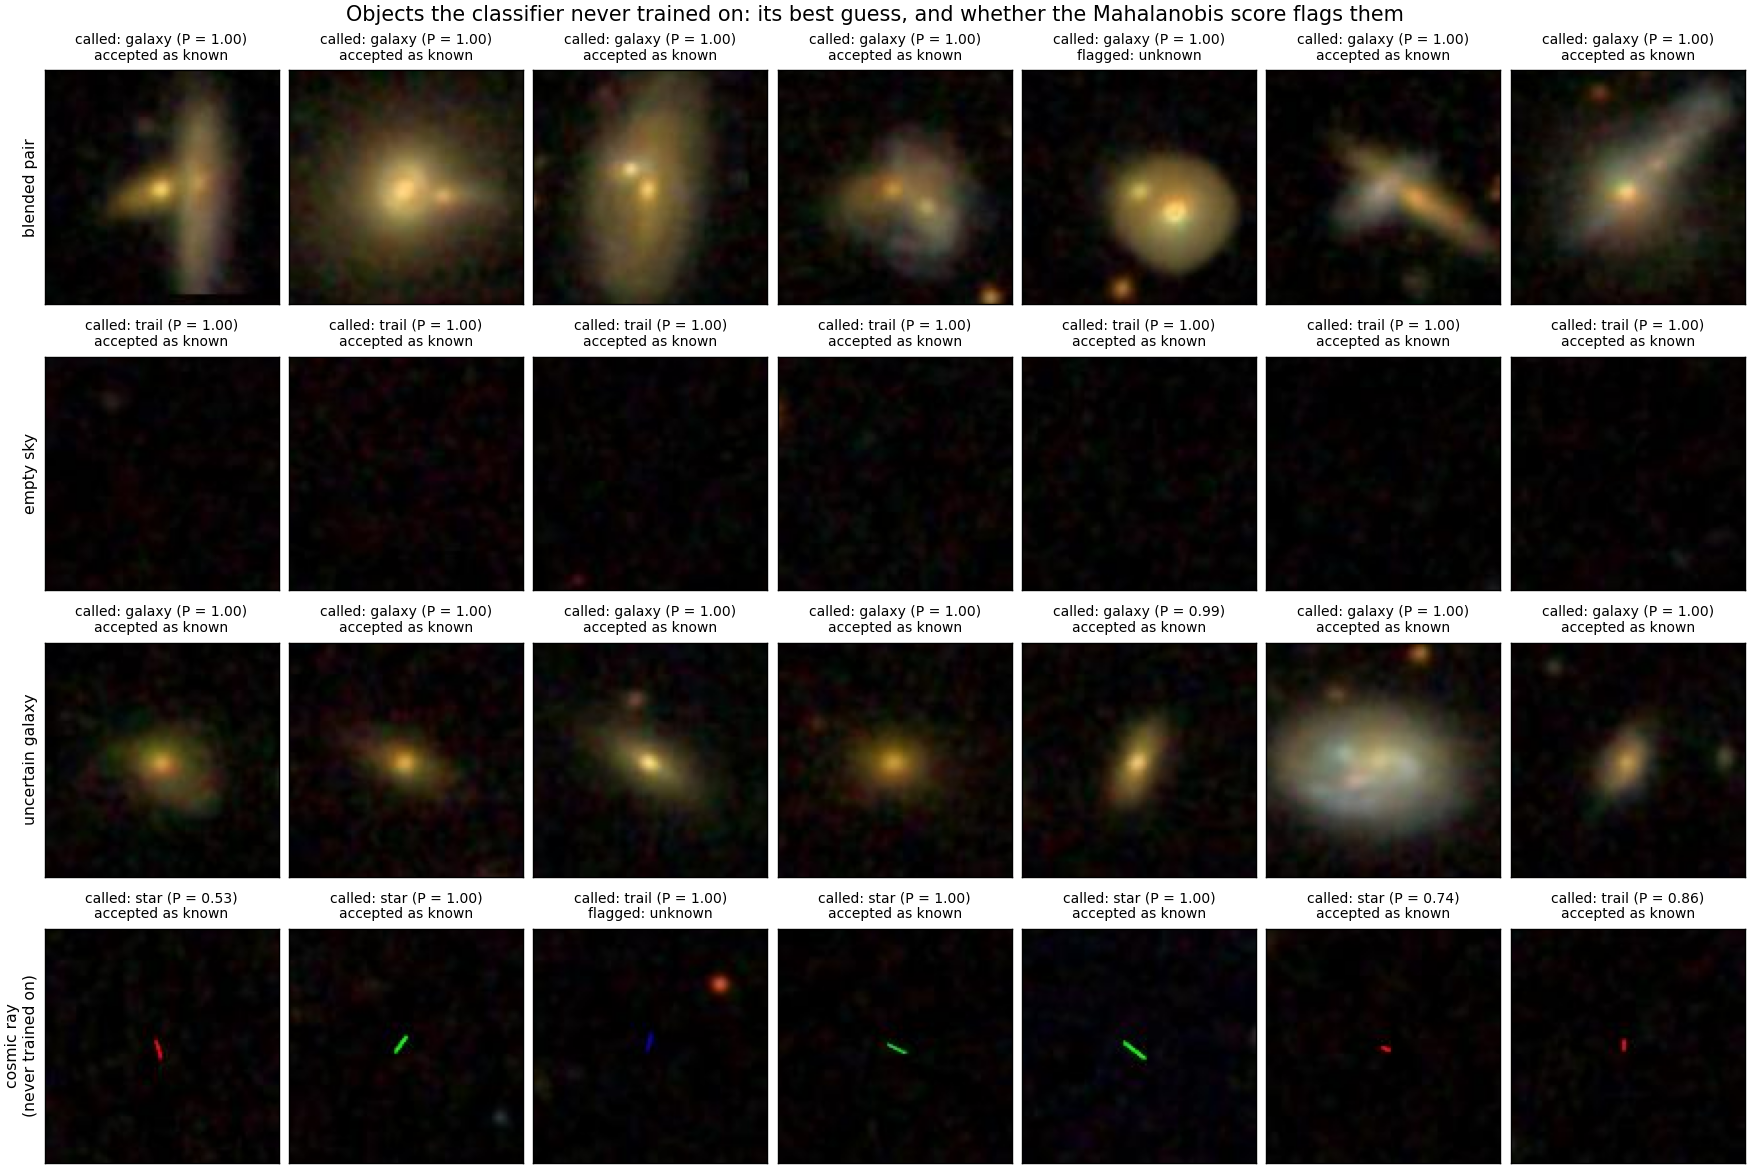
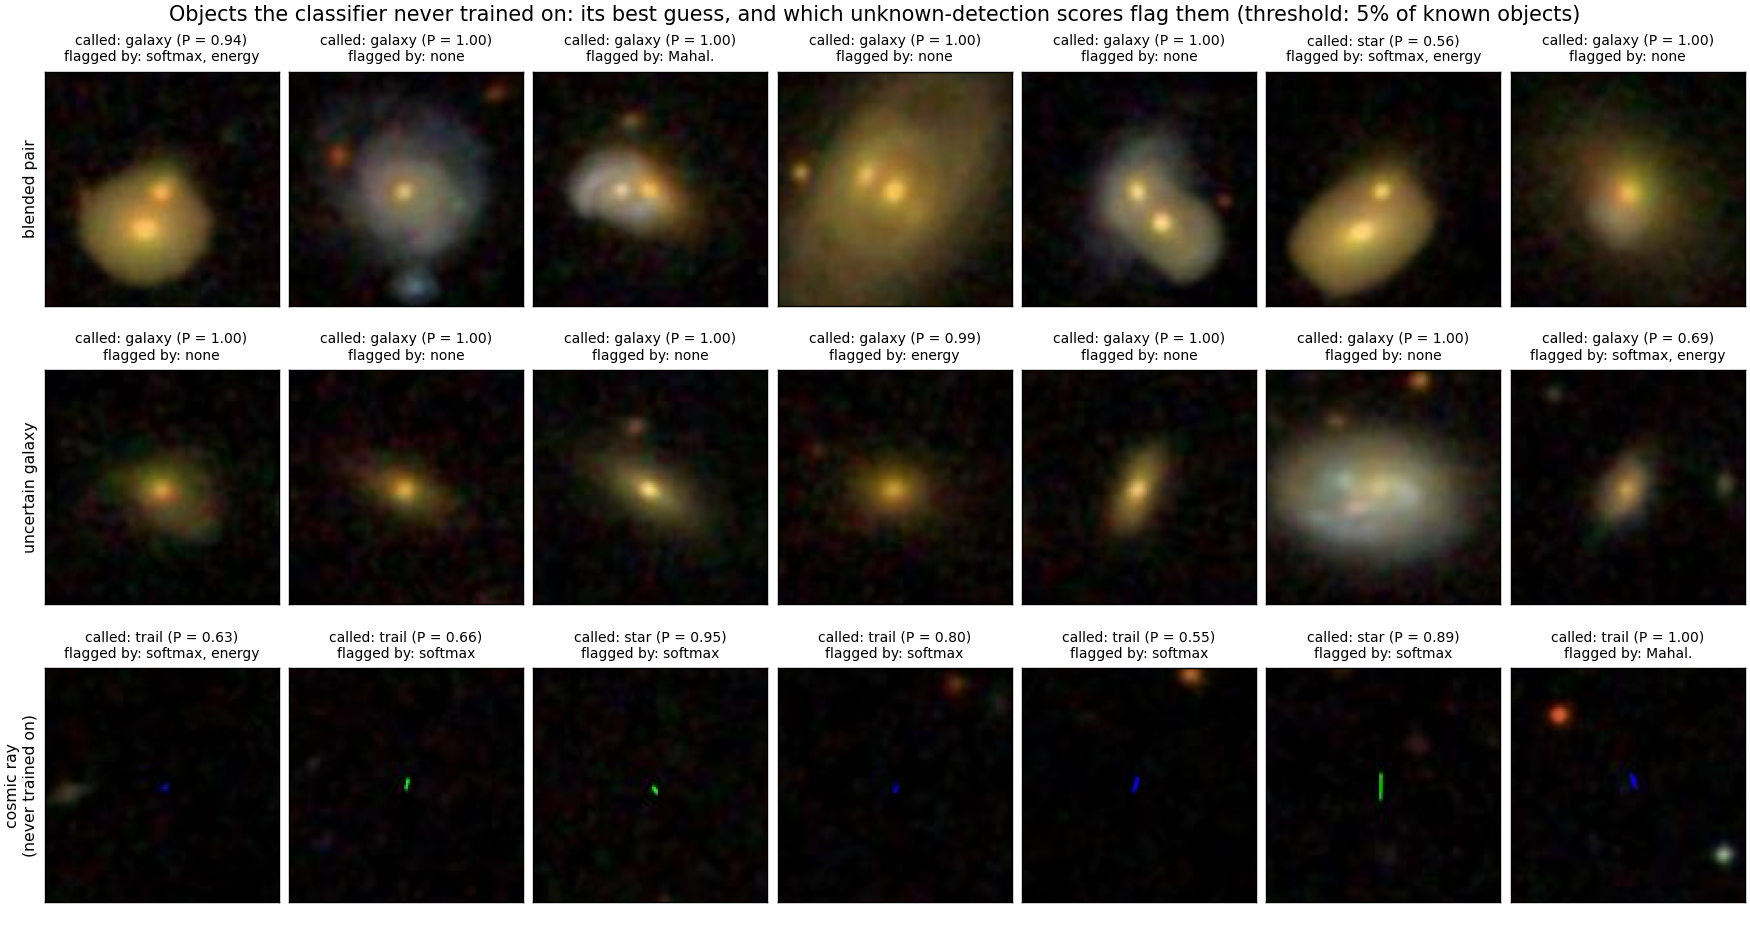
Step 5: empty-sky class and compact-galaxy blends; held-out cosmic rays AUROC 0.80 -> 0.95.

diff --git a/agentic/10_Convolutions_and_Galaxies/step5.py b/agentic/10_Convolutions_and_Galaxies/step5.py
@@ -24,7 +24,8 @@ import sims
 import step3 as s3
 
 OUT = Path(__file__).parent / "results"
-CLASSES = ["galaxy", "star", "cosmic ray", "trail"]
+CLASSES = ["galaxy", "star", "cosmic ray", "trail", "empty sky"]
+LOO_CLASSES = ["galaxy", "star", "trail", "empty sky"]          # cosmic rays held out
 log = []
 
 
@@ -46,10 +47,25 @@ def artifacts(kind, n, sky, rng):
     return np.stack(out)
 
 
+def compact(gals, border=10, max_area=3000):
+    """Galaxies whose generous footprint stays `border` px inside the frame and is small:
+    these can be moved without carrying a cut-off edge or a visible mask outline."""
+    keep = []
+    for k, v in enumerate(gals):
+        lab, _ = __import__("scipy").ndimage.label(sims.object_mask(v, 2.0, 8))
+        foot = lab == lab[60, 60] if lab[60, 60] else np.zeros(v.shape[:2], bool)
+        edge = foot[:border].any() or foot[-border:].any() or foot[:, :border].any() or foot[:, -border:].any()
+        if lab[60, 60] and not edge and foot.sum() < max_area:
+            keep.append(k)
+    return np.array(keep)
+
+
 def blends(gals, n, rng):
+    """Galaxy a (any) plus the light of a compact galaxy b, 12-25 px away."""
+    small = compact(gals)
     out = []
     for _ in range(n):
-        a, b = gals[rng.integers(len(gals))], gals[rng.integers(len(gals))]
+        a, b = gals[rng.integers(len(gals))], gals[small[rng.integers(len(small))]]
         ub = s3.linear(b)
         ub = ub - s3.sky_level(ub)
         # only the galaxy's light, not its sky noise: its generous source footprint, soft-edged
@@ -119,7 +135,7 @@ if __name__ == "__main__":
 
     def known(gal_idx, stars, sky_, n_art):
         X = [prep(gal_idx), prep_v(stars), artifacts("cosmic ray", n_art, sky_, rng),
-             artifacts("trail", n_art, sky_, rng)]
+             artifacts("trail", n_art, sky_, rng), prep_v(sky_[rng.permutation(len(sky_))[:n_art]])]
         y = np.concatenate([np.full(len(x), c) for c, x in enumerate(X)])
         return np.concatenate(X), y
 
@@ -128,16 +144,20 @@ if __name__ == "__main__":
     X_te, y_te = known(test_c, st_te, sky_te, 300)
     unknown = {
         "blended pair": blends(images_dr16[test_c], 400, rng),
-        "empty sky": prep_v(sky_te[:400]),
         "uncertain galaxy": prep(unc[:600]),
     }
+    say(f"[blends] built from {len(compact(images_dr16[test_c]))} compact test galaxies "
+        f"(footprint >= 10 px inside the frame)")
     say(f"[data] train {len(X_tr)}, validation {len(X_va)}, known test {len(X_te)}; "
         + ", ".join(f"{k} {len(v)}" for k, v in unknown.items()))
 
-    # ---- the 4-class model ------------------------------------------------------------------------
-    sc = fit_and_score(X_tr, y_tr, 4, {"val": X_va, "test": X_te, **unknown})
+    # ---- the 5-class model ------------------------------------------------------------------------
+    sc = fit_and_score(X_tr, y_tr, 5, {"val": X_va, "test": X_te, **unknown})
     acc = np.mean(sc["test"]["pred"] == y_te)
-    per = [np.mean(sc["test"]["pred"][y_te == c] == c) for c in range(4)]
+    per = [np.mean(sc["test"]["pred"][y_te == c] == c) for c in range(5)]
+    trail_as_empty = np.mean(sc["test"]["pred"][y_te == 3] == 4)
+    say(f"[classify] trails called empty sky: {100 * trail_as_empty:.1f}%; empty sky called trail: "
+        f"{100 * np.mean(sc['test']['pred'][y_te == 4] == 3):.1f}%")
     say(f"[classify] known test accuracy {100 * acc:.1f}% (" +
         ", ".join(f"{n} {100 * a:.1f}%" for n, a in zip(CLASSES, per)) + ")")
     SCORES = ["msp", "energy", "mahalanobis"]
@@ -153,16 +173,16 @@ if __name__ == "__main__":
             line.append(f"{name}: AUROC {auc:.3f}, flagged {100 * np.mean(s_u > thr[k]):.0f}%")
         say(f"[ood] {k:11s} " + "; ".join(line))
     for name in unknown:
-        called = np.bincount(sc[name]["pred"], minlength=4) / len(sc[name]["pred"])
+        called = np.bincount(sc[name]["pred"], minlength=5) / len(sc[name]["pred"])
         say(f"[ood] {name} called as: " + ", ".join(f"{n} {100 * c:.0f}%" for n, c in zip(CLASSES, called)))
 
     # ---- leave one out: no cosmic rays in training ----------------------------------------------------
     keep = y_tr != 2
     y3 = y_tr[keep].copy()
-    y3[y3 == 3] = 2
+    y3[y3 > 2] -= 1                                   # trail 3 -> 2, empty sky 4 -> 3
     cr_te = X_te[y_te == 2]
     keep_v, keep_t = y_va != 2, y_te != 2
-    sc3 = fit_and_score(X_tr[keep], y3, 3, {"val": X_va[keep_v], "test": X_te[keep_t], "cosmic ray": cr_te})
+    sc3 = fit_and_score(X_tr[keep], y3, 4, {"val": X_va[keep_v], "test": X_te[keep_t], "cosmic ray": cr_te})
     for k in SCORES:
         t3 = np.quantile(sc3["val"][k], 0.95)
         auc = roc_auc_score(np.r_[np.zeros(keep_t.sum()), np.ones(len(cr_te))],
@@ -170,9 +190,9 @@ if __name__ == "__main__":
         rows[(k, "cosmic ray (held out)")] = (auc, np.mean(sc3["cosmic ray"][k] > t3))
         say(f"[leave-one-out] {k:11s} cosmic rays never seen: AUROC {auc:.3f}, flagged "
             f"{100 * np.mean(sc3['cosmic ray'][k] > t3):.0f}% (known flagged {100 * np.mean(sc3['test'][k] > t3):.1f}%)")
-    called = np.bincount(sc3["cosmic ray"]["pred"], minlength=3) / len(cr_te)
+    called = np.bincount(sc3["cosmic ray"]["pred"], minlength=4) / len(cr_te)
     say("[leave-one-out] held-out cosmic rays called as: " +
-        ", ".join(f"{n} {100 * c:.0f}%" for n, c in zip(["galaxy", "star", "trail"], called)))
+        ", ".join(f"{n} {100 * c:.0f}%" for n, c in zip(LOO_CLASSES, called)))
 
     # ---- figures -------------------------------------------------------------------------------
     ood_sets = list(unknown) + ["cosmic ray (held out)"]
@@ -206,24 +226,23 @@ if __name__ == "__main__":
     fig.savefig(OUT / "step5_ood.png", dpi=140)
 
     # gallery: each unknown set, the classifier's call and the Mahalanobis verdict
-    fig, axes = plt.subplots(4, 7, figsize=(14, 9.4), constrained_layout=True)
-    gsets = [("blended pair", unknown["blended pair"], sc["blended pair"], CLASSES),
-             ("empty sky", unknown["empty sky"], sc["empty sky"], CLASSES),
-             ("uncertain galaxy", unknown["uncertain galaxy"], sc["uncertain galaxy"], CLASSES),
-             ("cosmic ray\n(never trained on)", cr_te, sc3["cosmic ray"], ["galaxy", "star", "trail"])]
-    t_m3 = np.quantile(sc3["val"]["mahalanobis"], 0.95)
-    for row, (name, X, s, names) in enumerate(gsets):
-        t = t_m3 if row == 3 else thr["mahalanobis"]
+    fig, axes = plt.subplots(3, 7, figsize=(14, 7.4), constrained_layout=True)
+    thr3 = {k: np.quantile(sc3["val"][k], 0.95) for k in SCORES}
+    short = {"msp": "softmax", "energy": "energy", "mahalanobis": "Mahal."}
+    gsets = [("blended pair", unknown["blended pair"], sc["blended pair"], CLASSES, thr),
+             ("uncertain galaxy", unknown["uncertain galaxy"], sc["uncertain galaxy"], CLASSES, thr),
+             ("cosmic ray\n(never trained on)", cr_te, sc3["cosmic ray"], LOO_CLASSES, thr3)]
+    for row, (name, X, s, names, t) in enumerate(gsets):
         for c, ax in enumerate(axes[row]):
             ax.imshow(X[c])
-            flag = s["mahalanobis"][c] > t
+            by = [short[k] for k in SCORES if s[k][c] > t[k]]
             ax.set_title(f"called: {names[s['pred'][c]]} (P = {s['pmax'][c]:.2f})\n"
-                         f"{'flagged: unknown' if flag else 'accepted as known'}", fontsize=8)
+                         f"flagged by: {', '.join(by) if by else 'none'}", fontsize=8)
             ax.set_xticks([])
             ax.set_yticks([])
         axes[row, 0].set_ylabel(name, fontsize=9)
-    fig.suptitle("Objects the classifier never trained on: its best guess, and whether the "
-                 "Mahalanobis score flags them")
+    fig.suptitle("Objects the classifier never trained on: its best guess, and which unknown-detection "
+                 "scores flag them (threshold: 5% of known objects)")
     fig.savefig(OUT / "step5_gallery.png", dpi=125)
     (OUT / "step5_log.txt").write_text("\n".join(log) + "\n")
 
